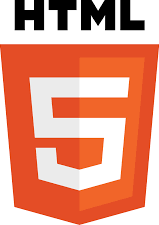
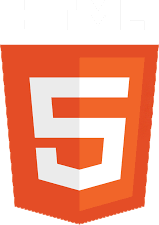
update Sept 27

diff --git a/resume2.html b/resume2.html
@@ -14,11 +14,11 @@
         <header>
             <div id="navbar" class="sticky">
                 <div id="navL">
-                    <img src="images/logo_transparent_white.png">
-                    <a href="">Marcin M. Malec</a>
+                    <img src="images/logo/HatchfulExport-All/logo_transparent_no_text.png">
+                    <a href="" style="font-family: Amiri; fill: rgb(57, 55, 55); font-style:italic;">Marcin M. Malec</a>
                 </div>
                 <ul id="navR">
-                    <a href="#keySkillsAnchor">Key Competences</a>
+                    <a href="#keyCompetences">Key Competences</a>
                     <a href="#projectsAnchor">Projects</a>
                 </ul>
             </div>
@@ -44,10 +44,10 @@
             </div>
             <!-- Key Skills -->
             <div id="keySkills" class="header" style="background-color: pink;">
-                <a id="keySkillsAnchor"></a>
+                <a id="keyCompetences"></a>
                 <h2>Key Compentences</h2>
                 <div id="keySkillsContent">
-                    <img src="images/HTML5v3.png">
+                    <img src="images/472-html5-logo-big-2.png">
                     <img src="images/CSS3v3.png">
                     <img src="images/JavaScriptLogoV2.png">
                     <img src="images/jQueryV3.png">

diff --git a/style2.css b/style2.css
@@ -49,6 +49,9 @@ main {
     color: #f2f2f2;
     padding: 14px;
     text-decoration: none;
+    height: 60px;
+    box-sizing: border-box;
+    line-height: 30px;
 }
 
 #navbar ul a {
@@ -60,7 +63,7 @@ main {
 }
 
 #navL {
-    color: pink;
+    
 }
 
 #navL img {
@@ -69,7 +72,11 @@ main {
 }
 
 #navL a {
-    margin-top: 0.5em;
+    margin-top: 0.3em;
+    font-family: Amiri;
+    font-style: italic;
+    font-size: 1.2em;
+    height: 100%;
 }
 
 .sticky {
@@ -121,6 +128,10 @@ h2 {
     flex-direction: row;
 }
 
+#aboutMe h2 {
+    padding: 0px;
+}
+
 #aboutMeimgContainer {
     flex: 33%;
     align-items: center;
@@ -135,6 +146,11 @@ h2 {
 }
 
 /* Skills Section */
+#keySkills {
+    background: rgb(38,22,31);
+    background: linear-gradient(180deg, rgba(38,22,31,1) 0%, rgba(163,0,82,1) 100%);
+}
+
 #keySkillsContent {
     display: flex;
     flex-wrap: wrap;
